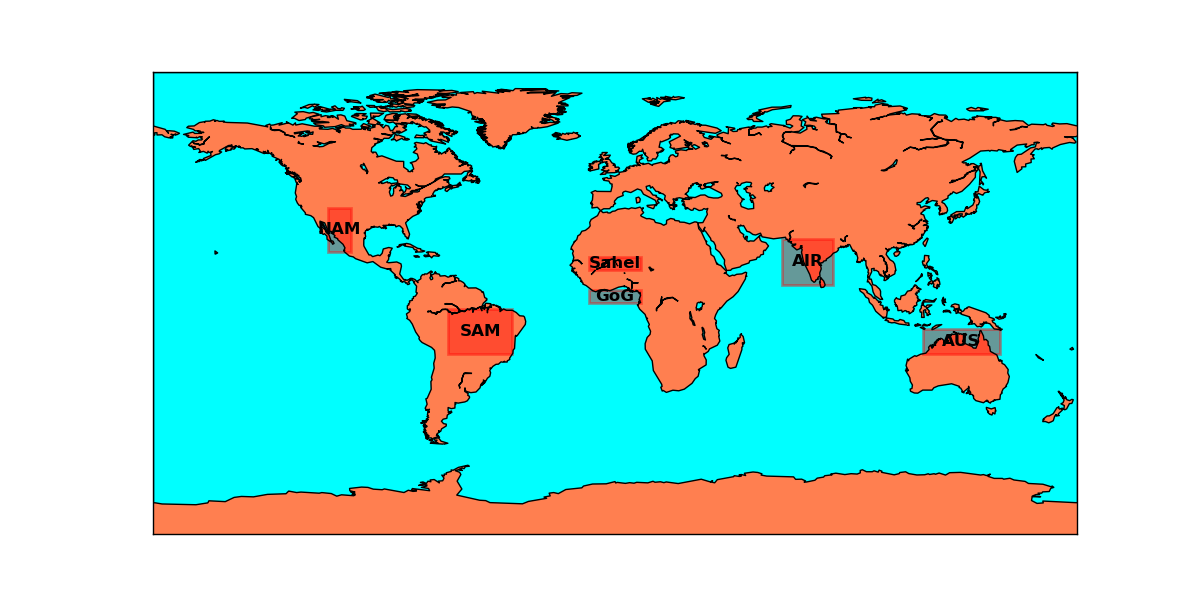
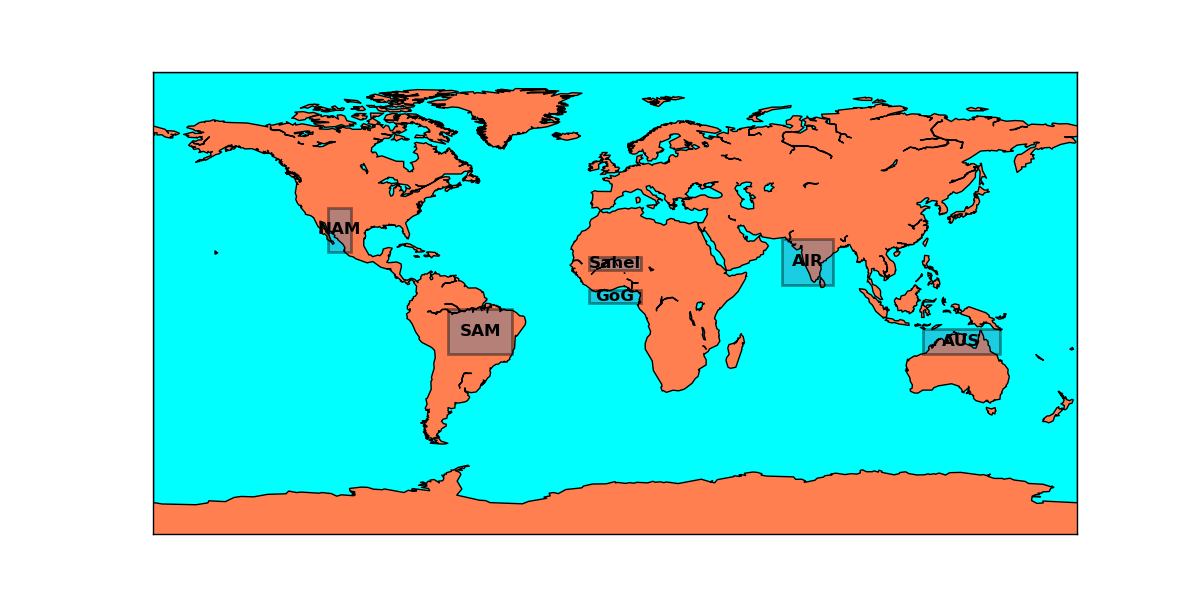
clean up

diff --git a/pcmdi_metrics/monsoon_sperber/scripts/driver_monsoon_sperber.py b/pcmdi_metrics/monsoon_sperber/scripts/driver_monsoon_sperber.py
@@ -169,16 +169,7 @@ if 'REF' not in list(monsoon_stat_dic.keys()):
 if 'RESULTS' not in list(monsoon_stat_dic.keys()):
     monsoon_stat_dic['RESULTS'] = {}
 
-# =================================================
-# Loop start for given models
-# -------------------------------------------------
-"""
-regions_specs = {}
-exec(compile(open(os.path.join(sys.prefix, "share",
-                               "pmp", "default_regions.py")).read(),
-             os.path.join(sys.prefix, "share", "pmp",
-                          "default_regions.py"), 'exec'))
-"""
+# Load regions specs 
 regions_specs = {}
 egg_pth = pkg_resources.resource_filename(
     pkg_resources.Requirement.parse("pcmdi_metrics"), 
@@ -186,6 +177,9 @@ egg_pth = pkg_resources.resource_filename(
 exec(compile(open(os.path.join(egg_pth, "default_regions.py")).read(),
 os.path.join(egg_pth, "default_regions.py"), 'exec'))
 
+# =================================================
+# Loop start for given models
+# -------------------------------------------------
 if includeOBS:
     models.insert(0, 'obs')
 
@@ -296,7 +290,7 @@ for model in models:
                 # Write individual year time series for each monsoon domain
                 # in a netCDF file
                 if nc_out:
-                    output_filename = "{}_{}_{}_{}_{}_{}_{}".format(
+                    output_filename = "{}_{}_{}_{}_{}_{}-{}".format(
                         mip, model, exp,
                         run, 'monsoon_sperber', startYear, endYear)
                     fout = cdms2.open(os.path.join(
@@ -319,6 +313,8 @@ for model in models:
                     for i, region in enumerate(list_monsoon_regions):
                         ax[region] = plt.subplot(nrows, ncols, i+1)
                         ax[region].set_ylim(0,1) 
+                        ax[region].set_yticks([0, 0.2, 0.4, 0.6, 0.8, 1]) 
+                        ax[region].set_xticks([0, 10, 20, 30, 40, 50, 60, 70]) 
                         ax[region].margins(x=0)
                         print('plot: region', region, 'nrows',
                               nrows, 'ncols', ncols, 'index', i+1)
@@ -521,12 +517,9 @@ for model in models:
                         if model != 'obs':
                             # model
                             ax[region].plot(
-                                #np.array(composite_pentad_time_series),
-                                #np.array(composite_pentad_time_series_cumsum),
                                 np.array(composite_pentad_time_series_cumsum_normalized),
                                 c='red',
                                 label=model)
-                                #label='Composite')
                             for idx in [metrics_result['onset_index'], metrics_result['decay_index']]:
                                 ax[region].axvline(
                                     x=idx,

diff --git a/pcmdi_metrics/monsoon_sperber/doc/myParam.py b/pcmdi_metrics/monsoon_sperber/doc/myParam.py
@@ -34,6 +34,7 @@ modpath_lf = '/work/lee1043/ESGF/xmls/cmip5/historical/fx/sftlf/cmip5.%(model).h
 modnames = ['ACCESS1-0', 'ACCESS1-3', 'BCC-CSM1-1', 'BCC-CSM1-1-M', 'BNU-ESM', 'CanCM4', 'CanESM2', 'CCSM4', 'CESM1-BGC', 'CESM1-CAM5', 'CESM1-FASTCHEM', 'CMCC-CESM', 'CMCC-CM', 'CMCC-CMS', 'CNRM-CM5', 'CSIRO-Mk3-6-0', 'EC-EARTH', 'FGOALS-g2', 'GFDL-CM3', 'GFDL-ESM2G', 'GFDL-ESM2M', 'GISS-E2-H', 'GISS-E2-R', 'HadGEM2-AO', 'HadGEM2-CC', 'HadGEM2-ES', 'INMCM4', 'IPSL-CM5A-LR', 'IPSL-CM5A-MR', 'IPSL-CM5B-LR', 'MIROC-ESM', 'MIROC-ESM-CHEM', 'MIROC4h', 'MIROC5', 'MPI-ESM-MR', 'MPI-ESM-P', 'MRI-CGCM3', 'MRI-ESM1', 'NorESM1-M']  # noqa
 
 #modnames = ['ACCESS1-0']
+modnames = ['CanCM4']
 
 realization = 'r1i1p1'
 #realization = '*'
@@ -52,7 +53,8 @@ meyear = 1999
 case_id = "{:v%Y%m%d}".format(datetime.datetime.now())
 #results_dir = '/work/lee1043/imsi/result_test/%(output_type)/monsoon/monsoon_sperber/'+case_id
 results_dir = os.path.join(
-    '/p/user_pub/pmp/pmp_results/pmp_v1.1.2',
+    '/work/lee1043/imsi/result_test',
+    #'/p/user_pub/pmp/pmp_results/pmp_v1.1.2',
     '%(output_type)', 'monsoon', 'monsoon_sperber',
     mip, exp, case_id)
 nc_out = True  # Write output in NetCDF

diff --git a/pcmdi_metrics/monsoon_sperber/doc/plot_monsoon_domain.py b/pcmdi_metrics/monsoon_sperber/doc/plot_monsoon_domain.py
@@ -6,8 +6,8 @@ from matplotlib.patches import Polygon
 def draw_screen_poly( lats, lons, m):
     x, y = m( lons, lats )
     xy = zip(x,y)
-    poly = Polygon( list(xy), facecolor='red', alpha=0.4,
-                    edgecolor='red', linewidth=2)
+    poly = Polygon( list(xy), facecolor='steelblue', alpha=0.4,
+                    edgecolor='k', linewidth=2)
     plt.gca().add_patch(poly)
 
 
